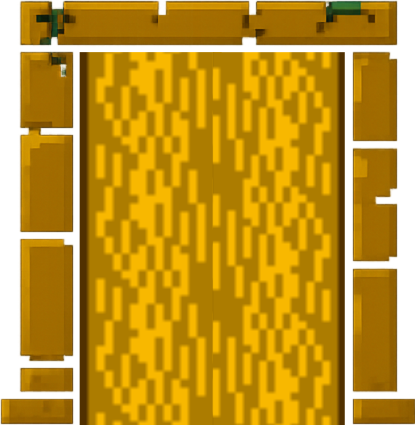
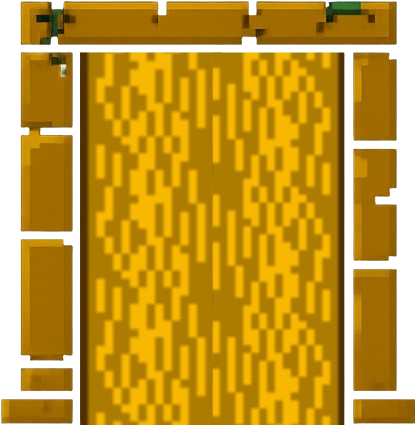
Adiciona portão de chegada genérico

diff --git a/FireboyWatergirl/WorldEntity.cpp b/FireboyWatergirl/WorldEntity.cpp
@@ -21,6 +21,7 @@ WorldEntity::WorldEntity(float posX, float posY, float posZ, EntityTypeSprite pl
     case THORN3:             type = THORN;               entity = new Sprite("Resources/Espinhos/Espinho7.png"); break;
     case MOVING_PLATFORM_X1: type = MOVING_PLATFORM_X;   entity = new Sprite("Resources/Platforms/Madeira/MeiaPlataformaMadeira4.png"); break;
     case MOVING_PLATFORM_Y1: type = MOVING_PLATFORM_Y;   entity = new Sprite("Resources/Platforms/Madeira/MeiaPlataformaMadeira4.png"); break;
+    case FINISH_PORTAL_3:    type = FINISH_PORTAL_ANY;   entity = new Sprite("Resources/Door.png"); break;
     case PLATFORM_STOPPER:   type = _PLATFORM_STOPPER;   break;
     }
 
@@ -40,6 +41,7 @@ WorldEntity::WorldEntity(float posX, float posY, float posZ, EntityTypeSprite pl
     case GROUND:
     case FINISH_PORTAL_FIRE:
     case FINISH_PORTAL_WATER:
+    case FINISH_PORTAL_ANY:
         points[0] = { -entity->Width() / 2.0f, -entity->Height() / 2.0f };
         points[1] = {  entity->Width() / 2.0f, -entity->Height() / 2.0f };
         points[3] = { -entity->Width() / 2.0f,  entity->Height() / 2.0f };

diff --git a/FireboyWatergirl/Player.cpp b/FireboyWatergirl/Player.cpp
@@ -144,6 +144,10 @@ void Player::OnCollision(Object* obj)
 {
     switch (obj->Type())
     {
+    case FINISH_PORTAL_ANY:
+        ready_next_level = true;
+        break;
+
     case FINISH_PORTAL_FIRE:
         if (is_fireboy) ready_next_level = true;
         break;
@@ -204,7 +208,7 @@ void Player::OnCollision(Object* obj)
             }
 
             // Ação pulo
-            if (window->KeyDown(controls[key_up][is_fireboy]) || FireboyWatergirl::gamepad->XboxButton(ButtonA)) {
+            if (window->KeyPress(controls[key_up][is_fireboy]) || FireboyWatergirl::gamepad->XboxButton(ButtonA)) {
                 velocity->Add(jump);
                 FireboyWatergirl::audio->Play(is_fireboy ? FB_JUMP : WG_JUMP);
             }

diff --git a/FireboyWatergirl/WorldEntity.h b/FireboyWatergirl/WorldEntity.h
@@ -11,7 +11,8 @@ enum EntityType {
     MOVABLE_BOX,
     MOVING_PLATFORM_X,
     MOVING_PLATFORM_Y,
-    _PLATFORM_STOPPER
+    _PLATFORM_STOPPER,
+    FINISH_PORTAL_ANY,
 };
 
 enum EntityTypeSprite {
@@ -30,7 +31,8 @@ enum EntityTypeSprite {
     THORN3,
     MOVING_PLATFORM_X1,
     MOVING_PLATFORM_Y1,
-    PLATFORM_STOPPER
+    PLATFORM_STOPPER,
+    FINISH_PORTAL_3
 };
 
 class WorldEntity : public Object
